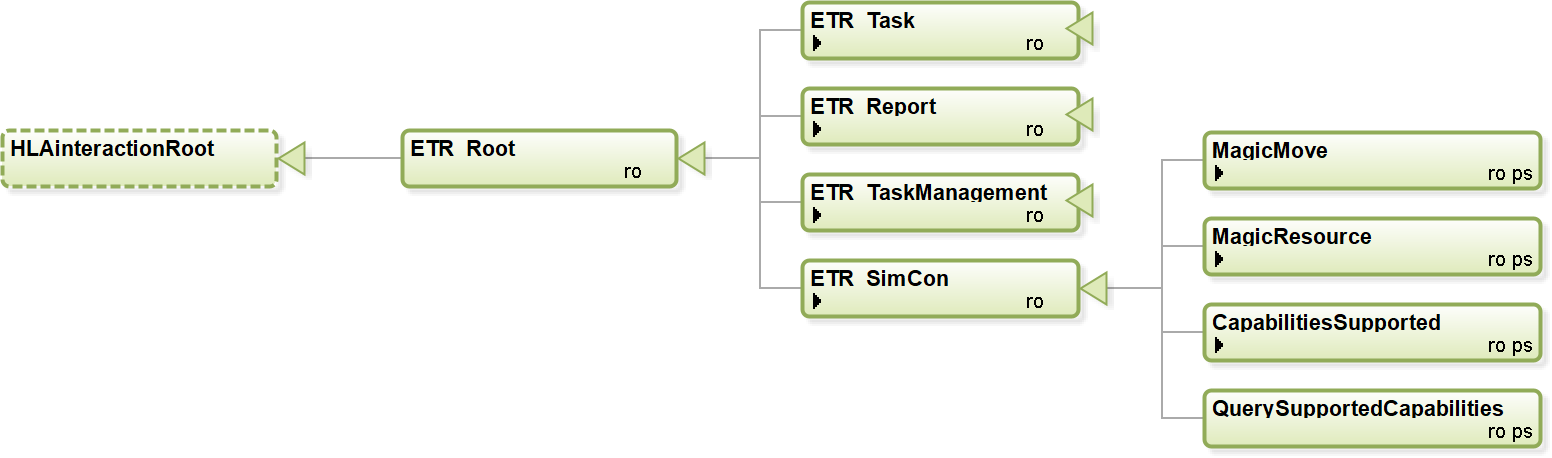
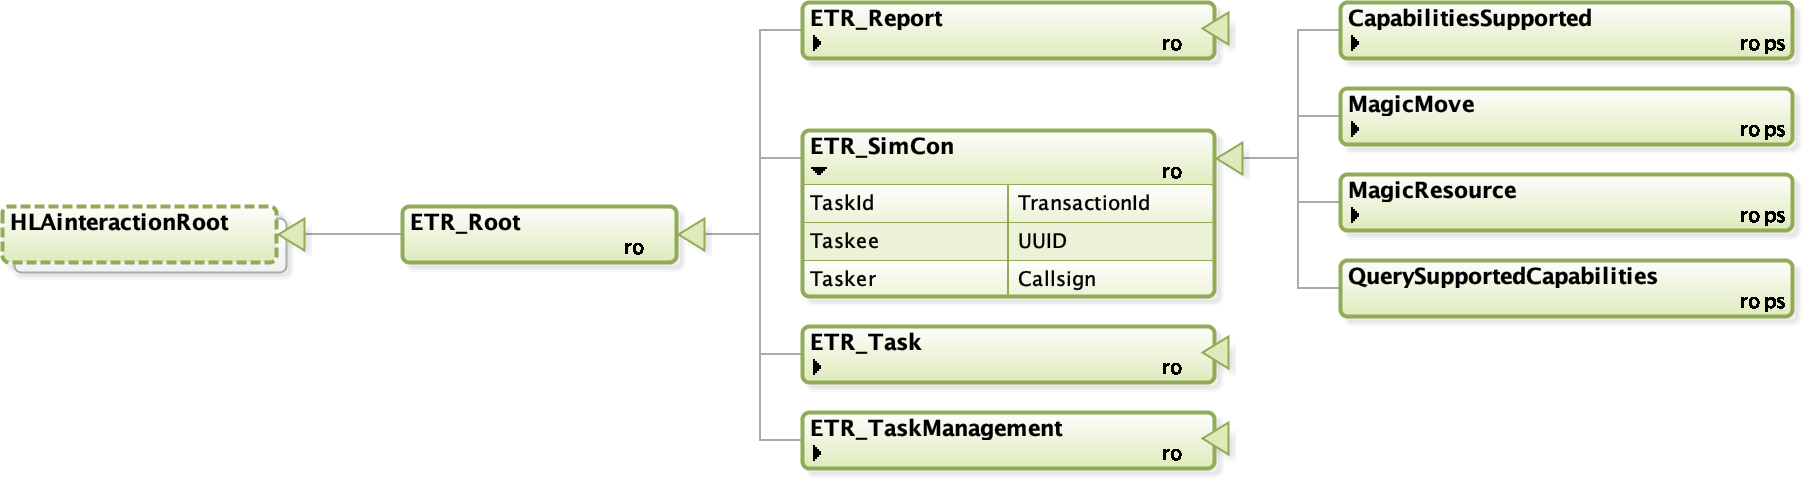
rc1

diff --git a/NETN-ETR.md b/NETN-ETR.md
@@ -58,14 +58,14 @@ This section summarizes the Entity Task interaction classes in the ETR FOM modul
 |Observe|Tasking of an entity to observe an area.|
 |OperateCheckPoint|Tasking of an entity to operate a checkpoint. The tasked entity should be within a certain distance (tolerance specified in the federation agreements) of the location of the checkpoint. If not, a separate move task should be issued first. The tasked entity activates an inactive checkpoint and operates the checkpoint for the specified duration of time.|
 |Patrol|Tasking of an entity to perform a patrol. The tasked entity moves from its current position to the start of the patrol route and then moves according to patrol route from its start point in the path, through all waypoints.|
-|PatrolRepeating|Tasking of an entity to repeat a patrol for a given duration. When the duration time has passed then the last cycle of the patrol is completed before the task ends. If the time of a cycle takes longer then the interval time then the cycle starts directly (without delay). If the time of a cycle takes less then the interval time then the entity waits at the first point of the patrol route until the next cycle is started.|
+|PatrolRepeating|Tasking of an entity to repeat a patrol for a given duration. When the duration time has passed, then the last cycle of the patrol is completed before the task ends. If the time of a cycle takes longer then the interval time, then the cycle starts directly (without delay). If the time of a cycle takes less then the interval time, then the entity waits at the first point of the patrol route until the next cycle is started.|
 |RemoveCheckPoint|Tasking of an entity to remove a checkpoint. This task removes a previously established checkpoint. The tasked entity should be within a certain distance (tolerance specified in the federation agreements) of the location of the checkpoint. If not, a separate move task should be issued first. After completion of the task, the checkpoint object should be deleted from the federation.|
-|RemovePassage|Task entity to remove the passage with the given UUID. The taskee entity should be within a certain distance tolerance (specified in the federation agreement) of one of the points of the passage to make the task possible.|
+|RemovePassage|Task entity to remove the passage with the given UUID. The tasked entity should be within a certain distance tolerance (specified in the federation agreement) of one of the points of the passage to make the task possible.|
 |SetOrderedAltitude|Tasking of an entity to set move to specified altitude.|
 |SetOrderedSpeed|Tasking of an entity to change speed.|
 |SetRulesOfEngagement|Tasking of an entity to change its rules of engagement.|
 |SetTransmitterStatus|Tasking of an entity to switch on/off all of its transmitters.|
-|StopAtSideOfRoad|Tasking of an entity to stop at the side of the road. This task is only relevant for an entity that is moving along a road to a destination. The executing move task is cancelled and a new move is defined to a position at the side of the road (the simulator has to calculate this location).|
+|StopAtSideOfRoad|Tasking of an entity to stop at the side of the road. This task is only relevant for an entity that is moving along a road to a destination. The executing move task is cancelled, and a new move is defined towards a position at the side of the road (the simulator has to calculate this location).|
 |TurnToHeading|Tasking of an entity to turn to the specified heading.|
 |TurnToOrientation|Tasking of an entity to rotate to a specified orientation, including pitch and roll.|
 |Wait|Tasking of an entity to wait for a duration of time.|
@@ -101,9 +101,9 @@ This section summarizes the Task Management interaction classes in the ETR FOM m
 
 |Task Management|Description|
 |---|---|
-|CancelSpecifiedTasks|Cancel all specified tasks. Tasks already started are also cancelled.|
-|CancelAllTasks|Cancel all tasks. Tasks already started are also cancelled.|
-|TaskStatusReport|A report about the status of a task given to an entity. The status of the task defined by the TaskId can be: Accepted, Refused, Cancelled, Executing, Completed or Error.|
+|CancelAllTasks|Management task to an entity to cancel all queued and ongoing tasks.|
+|CancelSpecifiedTasks|Management task to an entity to cancel all specified tasks.|
+|TaskStatusReport|A management task report regarding the status of a specific task assigned to an entity.|
 
 
 ### Simulation Control
@@ -113,10 +113,11 @@ This section summarizes the Simulation Control interaction classes in the ETR FO
 
 |Simulation Control|Description|
 |---|---|
-|MagicMove|Place the entity to the specified location with a given heading. All given task of the entity are cancelled.|
-|MagicResource|Changes the resource amount of the entity.|
-|QuerySupportedCapabilities|Query an entity which tasks and reports it supports. The taskee shall respond with a CapabilitiesSupported message.|
-|CapabilitiesSupported|Provide the set of tasks and reports that the entity supports. This interaction is in response to a QueryCapabilitiesSupported, using the same Taskee and Tasker.|
+|CapabilitiesSupported|Provides the set of ETR_Task, ETR_SimCon and ETR_Report interactions that the federate modelling the entity supports. This interaction is in response to a QuerySupportedCapabilities.|
+|MagicMove|A simulation control task that instructs the entity to immediately jump to the specified location and update the new position and heading.|
+|MagicResource|A simulation control task that instructs the entity to set amount of available resources immediately.|
+|QuerySupportedCapabilities|Query which tasks, reports and SimCon actions that an entity supports. The queried entity shall respond with a CapabilitiesSupported message.|
+
 
 ## ETR Task Processing
 
@@ -126,11 +127,11 @@ The following sections define how tasks shall be handled.
 
 The ETR FOM module defines two modes for a task: non-concurrent mode and concurrent mode.
 
-In the non-concurrent mode the task is placed on the non-concurrent task list for the entity, which serves as a waiting list. Once the task is at the head of the task list, and the currently executing task completes, it is removed from the non-concurrent task list and started. Using this task mode, tasks are executed one after the other.
+In the non-concurrent mode the task is placed on the non-concurrent task list for the entity, which serves as a waiting list. Once the task is at the head of the task list, and the currently executing task completes, it is removed from the non-concurrent task list and started. In this task mode, tasks are executed one after the other.
 
-In the concurrent mode the task is placed on the concurrent task list for the entity. This list also serves as a waiting list. Once the task is at the head of the task list and it can execute concurrently with already executing tasks, it is removed from the task list and started.
+In the concurrent mode, the task is placed on the concurrent task list for the entity. This list also serves as a waiting list. Once the task is at the head of the task list, and it can execute concurrently with already running tasks, it is removed from the task list and started.
 
-When no task is executed the task at the head of the non-concurrent task list has a higher priority to start then the task at the head of the concurrent task list.
+When no task is executed, the task at the head of the non-concurrent task list has a higher priority to start then the task at the head of the concurrent task list.
 
 ### ETR Task States
 
@@ -138,7 +139,7 @@ The following states are defined for a task:
 
 * TaskStatus.Received: the task is received;
 * TaskStatus.Waiting: the task is waiting for execution;
-* TaskStatus.Executing: the task is executing.
+* TaskStatus.Executing: the task is running.
 
 The task state diagram is shown below.
 
@@ -158,56 +159,56 @@ A task in the Received state shall be handled in the following way:
 
 #### Waiting State
 A task in the Waiting state shall be handled in the following way:
-1.	Determine if the task can start using the following conditions:
+1.  Determine if the task can start using the following conditions:
     * For a non-concurrent mode task:
-        * The task is at head of the non-concurrent task list, and
+        * The task is at the head of the non-concurrent task list, and
         * The task’s taskee is not executing a task, and
         * The task has no `StartWhen` time (i.e. the StartWhen is undefined), or the task has a StartWhen time and this time is less than or equal to the current time.
     * For a concurrent mode task:
         * The task is at the head of the concurrent task list and
         * The task has no `StartWhen` time (i.e. the StartWhen is undefined), or the task has a StartWhen time and this time is less than or equal to the current time, and
         * The task does not conflict with other executing tasks, see [Concurrent Tasks](#Concurrent-Tasks).
-2.	If the task can start then
+2.  If the task can start then
     - The task shall be removed from the task list.
     - A `TaskStatusReport` (executing) shall be returned to the Tasker.
     - The task shall transition to the Executing state.
-3.	Else
+3.  Else
     * The task shall remain in the Waiting state, even if the current time has passed the time specified in the `StartWhen` parameter of the task.
 
 #### Executing State
 A task in the Executing state shall be handled in the following way:
 
-1.	Determine if the task has completed. The conditions are scenario specific and the determination is up to the federate application.
-2.	If the task has completed then
+1.  Determine if the task has completed. The conditions are scenario specific, and the determination is up to the federate application.
+2.  If the task has completed then
     * A `TaskStatusReport` (completed) shall be returned to the Tasker.
     * The task is removed.
-3.	Else
+3.  Else
     * The task shall remain in the Executing state.
 
 #### TaskStatus State
-A task in the TaskStatus state shall be handled as specified in the sub states, and also in the following way:
+A task in the TaskStatus state shall be handled as specified in the sub-states, and also in the following way:
 
-1.	If the task is cancelled by either a `CancelAllTasks` or `CancelSpecifiedTask` then
+1.  If the task is cancelled by either a `CancelAllTasks` or `CancelSpecifiedTask` then
     * A `TaskStatusReport` (cancelled) shall be returned to the Tasker.
     * The task is removed.
-2.	If the task cannot be handled due to an internal federate application error then
-    * A `TaskStatusReport` (error) shall be returned to the Tasker and a description of the error shall be included in the message.
+2.  If the task cannot be handled due to an internal federate application error then
+    * A `TaskStatusReport` (error) shall be returned to the Tasker, and a description of the error shall be included in the message.
     * The task is removed.
 
 ### Task List Ordering
 
-Each entity has a non-concurrent task list for tasks in non-concurrent mode and a concurrent task list for tasks in concurrent mode. The task at the head of the non-concurrent task list is the first task to be started once all currently executing tasks are completed. The task at the head of the concurrent task list is the first task to be started when it can run concurrently with all executing tasks or when all currently executing tasks are completed. The ordering of the tasks in both  list shall be according to the following figure.
+Each entity has a non-concurrent task list for tasks in non-concurrent mode and a concurrent task list for tasks in concurrent mode. The task at the head of the non-concurrent task list is the first task to be started once all currently executing tasks are completed. The task at the head of the concurrent task list is the first task to be started when it can run concurrently with all executing tasks or when all currently executing tasks are completed. The ordering of the tasks in both lists shall be according to the following figure.
 
 <img src="./images/etr_tasklist.png" width="85%"/>
 
-The tasklist shall be divided in two parts: a left part that contains tasks where the StartWhen is specified, and a right part that contains tasks where no StartWhen is specified. The division point shall mark the head of the left part and the tail of the right part. A part is empty if there are no tasks for that part.
+The tasklist shall be divided into two parts: a left part that contains tasks where the StartWhen is specified, and a right part that contains tasks where no StartWhen is specified. The division point shall mark the head of the left part and the tail of the right part. A part is empty if there are no tasks for that part.
 
 A task shall be placed in the task list as follows:
 
-1.	If the StartWhen time of the task is specified then the task shall be placed in the left part of the task list, using the StartWhen time to order the tasks in this part (with decreasing StartWhen value towards the head of the list).
-2.	If the StartWhen time of the task is not specified then the task shall be placed at the tail of the right part of the task list.
+1.  If the StartWhen time of the task is specified, then the task shall be placed in the left part of the task list, using the StartWhen time to order the tasks in this part (with decreasing StartWhen value towards the head of the list).
+2.  If the StartWhen time of the task is not specified, then the task shall be placed at the tail of the right part of the task list.
 
-###	Concurrent Tasks
+### Concurrent Tasks
 
 In order to define which tasks can run concurrently, we divide the tasks in four task groups:
 
@@ -251,7 +252,7 @@ A Simulation Control task for an entity shall be executed immediately, regardles
 
 ### Entity Task and Reporting Capabilities
 
-It shall be possible to query an entity for the ETR tasks and ETR reports that it supports. The set of tasks and reports that an entity supports is implementation-specific, and shall be used in the Received state of a task to determine if the task is supported.
+It shall be possible to query an entity for the ETR tasks and ETR reports that it supports. The set of tasks and reports that an entity supports is implementation-specific and shall be used in the Received state of a task to determine if the task is supported.
 
 With the interaction class `QuerySupportedCapabilities` an entity can be queried for the supported ETR tasks and ETR reports. The result is provided via the interaction class `CapabilitiesSupported`.
 
@@ -265,16 +266,16 @@ A `MagicResource` shall update the entity resources. Waiting or executing tasks 
 This section lists the requirements for applications that implement Entity Tasking and Reporting. The requirements are provided from receiver point of view (entity taskee, the federate application modelling the entity) and sender point of view (entity tasker, the federate application sending a task or receiving a report for an entity).
 
 The receiver:
-1.	SHALL support all ETR TaskManagement and ETR SimCon classes.
-2.	MAY support a subset of the ETR Task and ETR Report classes.
-3.	SHALL provide the interaction class parameters in accordance with the parameter-semantics in the FOM.
+1.  SHALL support all ETR TaskManagement and ETR SimCon classes.
+2.  MAY support a subset of the ETR Task and ETR Report classes.
+3.  SHALL provide the interaction class parameters in accordance with the parameter-semantics in the FOM.
 
 The sender:
-1.	SHALL provide the interaction class parameters in accordance with the parameter-semantics in the FOM.
+1.  SHALL provide the interaction class parameters in accordance with the parameter-semantics in the FOM.
 
 In addition, for the receiver, the following SHALL be documented in the federation agreements:
-1.	Distance tolerances of supported tasks (for the tasks `Mount`, `EstablishCheckPoint`, `OperateCheckPoint`, `RemoveCheckPoint`, `CreateObstacle`, `ClearObstacle`, `CreateMinefield`, `AddPassage`, and `RemovePassage`).
-2.	Entities that provide ETR Reports.
-3.	Time frequencies and conditions for the supported ETR Reports.
-4.	Modelling agreements related to checkpoints (if supported, see `EstablishCheckPoint`, `OperateCheckPoint`, and `RemoveCheckPoint`).
-5.	Modeling agreements related to minefields (if supported, see `CreateMineField`).
+1.  Distance tolerances of supported tasks (for the tasks `Mount`, `EstablishCheckPoint`, `OperateCheckPoint`, `RemoveCheckPoint`, `CreateObstacle`, `ClearObstacle`, `CreateMinefield`, `AddPassage`, and `RemovePassage`).
+2.  Entities that provide ETR Reports.
+3.  Time frequencies and conditions for the supported ETR Reports.
+4.  Modelling agreements related to checkpoints (if supported, see `EstablishCheckPoint`, `OperateCheckPoint`, and `RemoveCheckPoint`).
+5.  Modelling agreements related to minefields (if supported, see `CreateMineField`).
